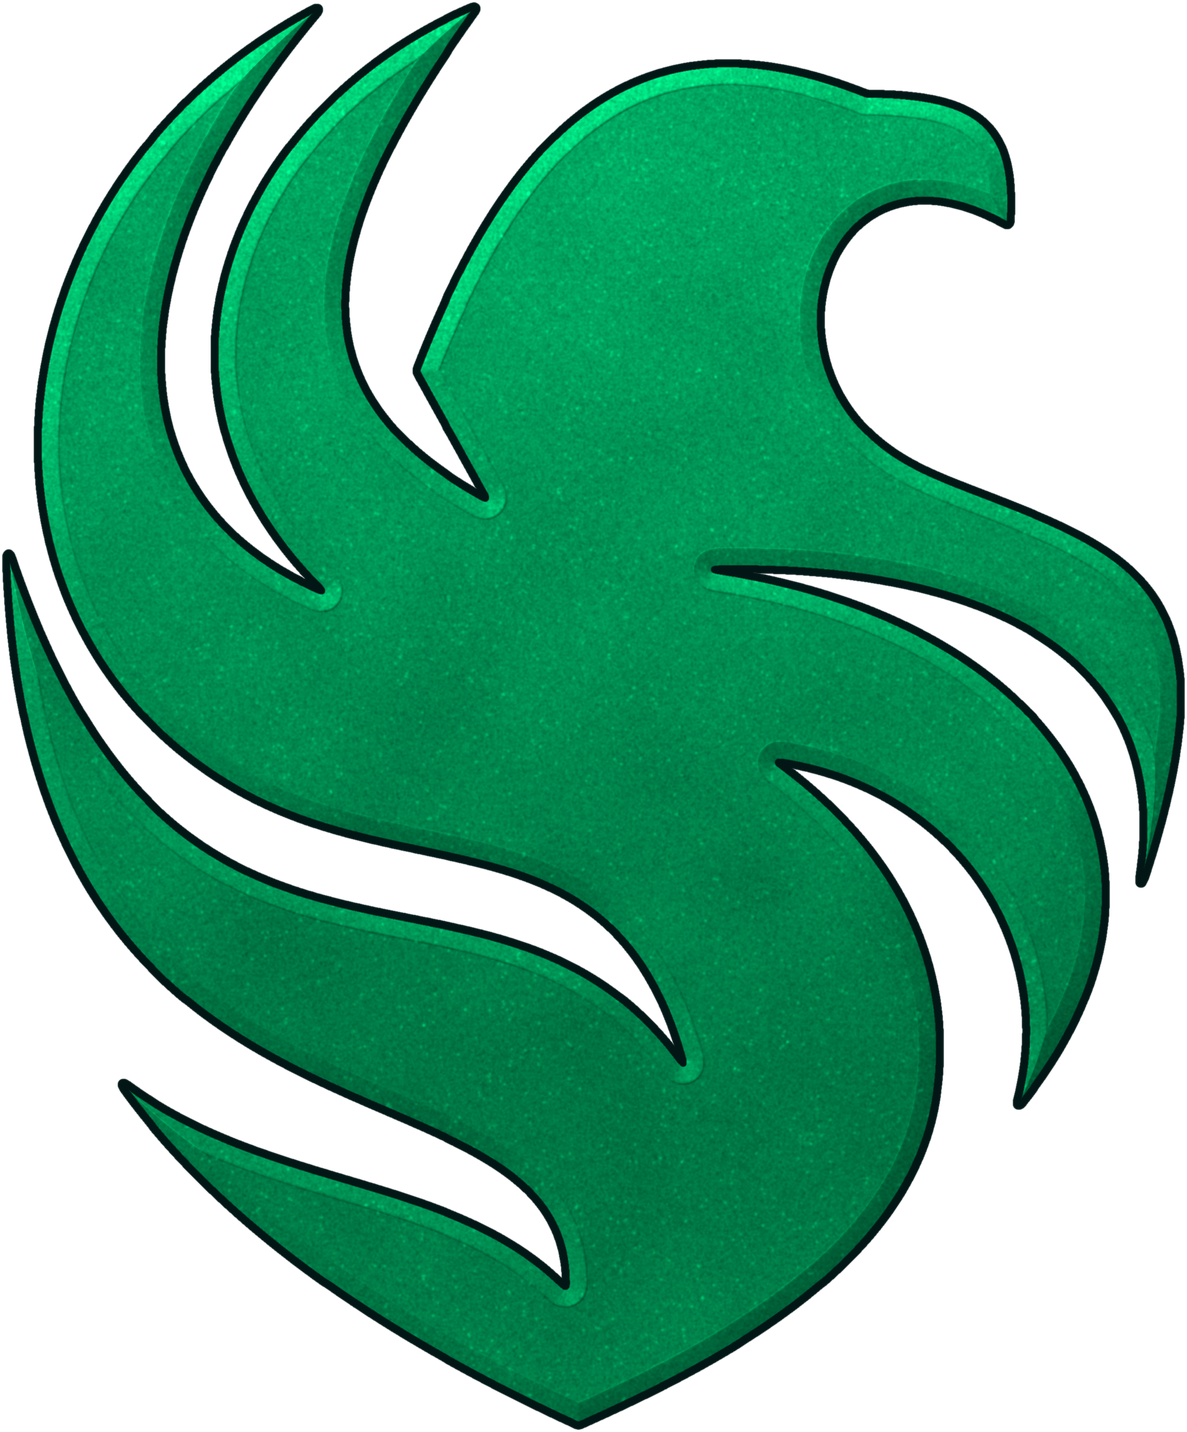
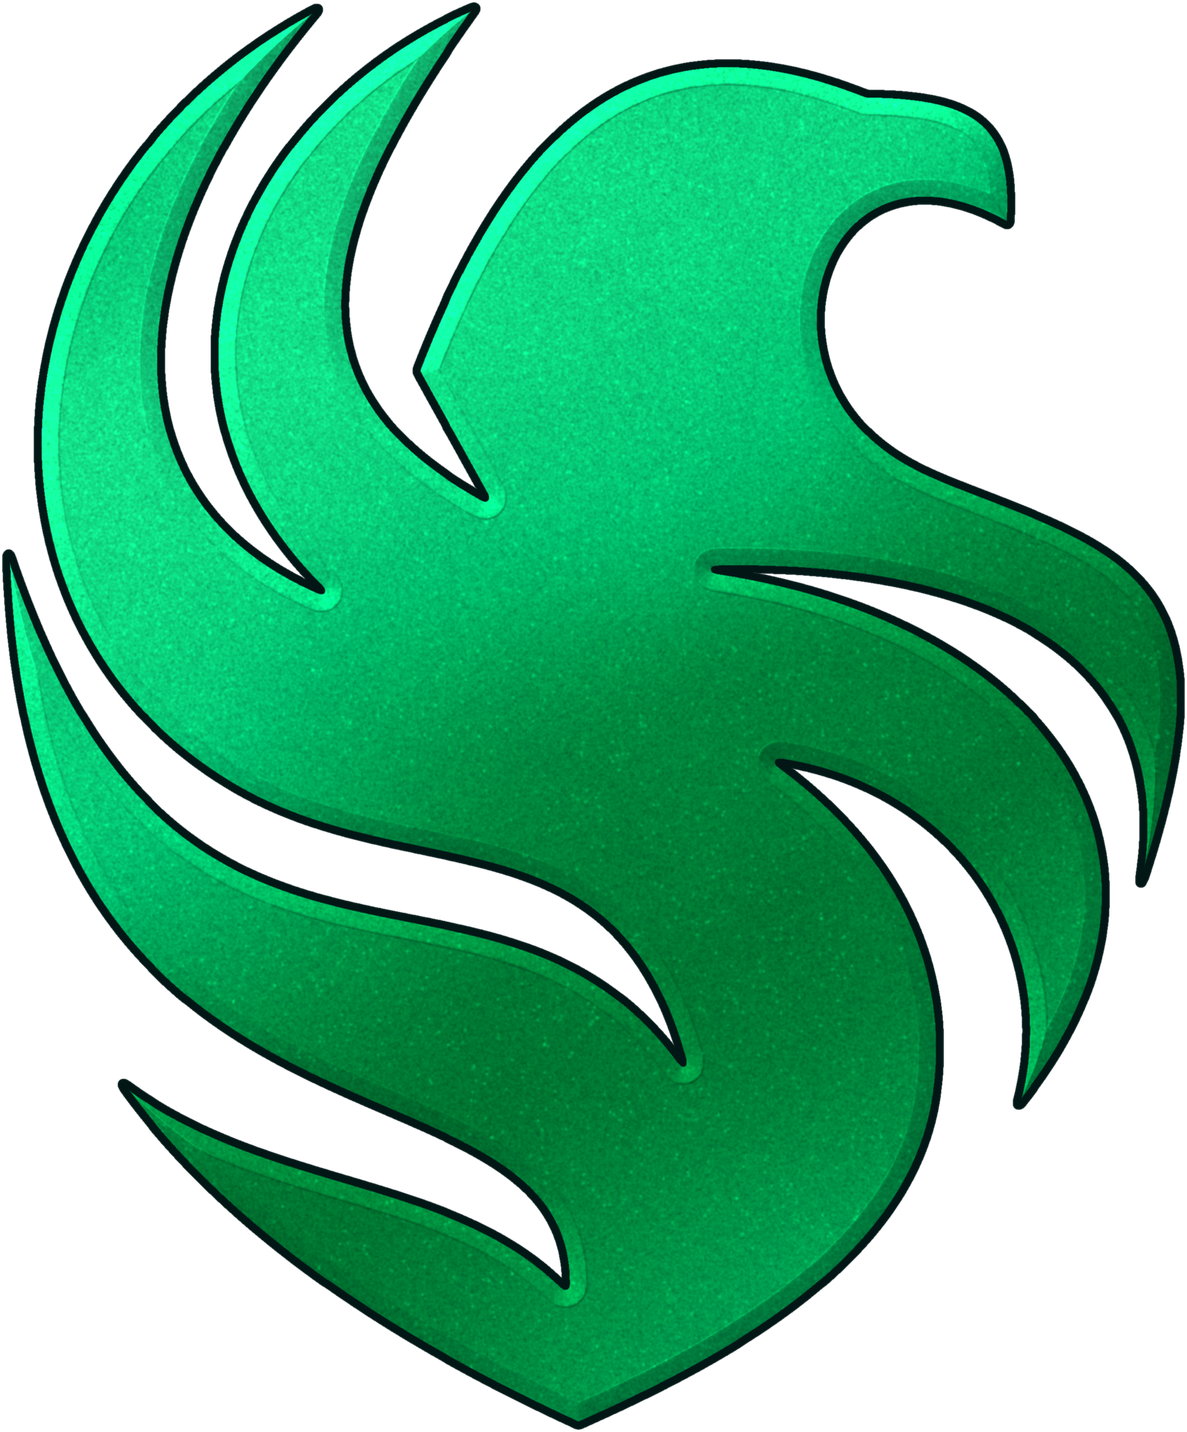
Diagonal lighting and sheen bands, richer shadow colours, blend and knockout options
Claude-Session: https://claude.ai/code/session_01KJ34GnW2j9nAw3EXCHVzYQ

diff --git a/stylize.py b/stylize.py
@@ -16,9 +16,28 @@ def hex_rgb(s):
     return np.array([int(s[i:i + 2], 16) for i in (0, 2, 4)], float)
 
 
-def stylize(src, size=1500, color=None, seed=0, bevel=20, bevel_strength=0.30):
+def shade_color(rgb, f):
+    """Darken/lighten by factor f the way foil does: shadows get richer, not greyer."""
+    f = f[..., None]
+    c = np.clip(rgb / 255, 1e-4, 1)
+    # Light colours (yellow, lime) need deeper shadows than rich ones (orange, red) to read as metal.
+    k = 0.4 + 0.8 * c.mean(-1, keepdims=True)
+    dark = c ** (1 + 1.6 * np.clip(1 - f, 0, None)) * np.minimum(f, 1) ** k
+    # Highlights brighten and drift slightly towards white.
+    lit = np.clip(c * f, 0, 1)
+    lit = lit + (1 - lit) * np.clip((f - 1) * 0.4, 0, 0.5)
+    return 255 * np.where(f < 1, dark, lit)
+
+
+def stylize(src, size=1500, color=None, seed=0, bevel=20, bevel_strength=0.30,
+             sheen=0.12, blend=0.0, knockout_dark=False):
     rng = np.random.default_rng(seed)
     im = src.convert("RGBA")
+    if knockout_dark:
+        # Treat dark linework as holes, so line-art logos become solid shapes with cut-outs.
+        arr = np.array(im)
+        arr[arr[..., :3].astype(float).mean(-1) < 90, 3] = 0
+        im = Image.fromarray(arr, "RGBA")
 
     # Padding so the outline never touches the canvas edge.
     pad = int(max(im.size) * 0.03)
@@ -38,17 +57,31 @@ def stylize(src, size=1500, color=None, seed=0, bevel=20, bevel_strength=0.30):
     rgb = rgb[idx[0], idx[1]]
     if color is not None:
         rgb[:] = color
+    if blend > 0:
+        # Soften hard colour splits into smooth gradients (fraction of logo size).
+        # Weighted by saturation so white/grey pieces pick up the colours around them.
+        sigma = blend * max(W, H)
+        sat = (rgb.max(-1) - rgb.min(-1)) / 255 * inside + 1e-3
+        num = [ndimage.gaussian_filter(rgb[..., c] * sat, sigma) for c in range(3)]
+        rgb = np.dstack(num) / ndimage.gaussian_filter(sat, sigma)[..., None]
 
     px = SS * size / 1500  # all sizes below are tuned for a 1500px output
     d_in = ndimage.distance_transform_edt(inside)
     d_out = ndimage.distance_transform_edt(~inside)
     sdf = d_in - d_out  # positive inside
 
-    # Vertical gradient: bright top, darkest around 75%, slight lift at the bottom.
-    ys = np.nonzero(inside.any(1))[0]
-    t = np.clip((np.arange(H) - ys[0]) / max(1, ys[-1] - ys[0]), 0, 1)
-    ramp = np.interp(t, [0, 0.3, 0.75, 1], [0.90, 0.80, 0.62, 0.66])[:, None, None]
-    col = rgb * ramp
+    # Diagonal gradient, lit from the top-left: bright top-left, darkest around 75%,
+    # slight lift in the far bottom-right corner.
+    yy, xx = np.mgrid[0:H, 0:W].astype(float)
+    proj = 0.55 * xx + 0.83 * yy
+    lo, hi = proj[inside].min(), proj[inside].max()
+    t = np.clip((proj - lo) / max(1.0, hi - lo), 0, 1)
+    ramp = np.interp(t, [0, 0.3, 0.75, 1], [1.18, 1.0, 0.72, 0.76])
+    # Sheen: soft light bands across the diagonal, warped so they don't look ruled.
+    warp = ndimage.gaussian_filter(rng.standard_normal((H // 8 + 1, W // 8 + 1)), max(H, W) / 8 * 0.08)
+    warp = ndimage.zoom(warp / (warp.std() + 1e-9), 8, order=1)[:H, :W]
+    bands = np.sin(2 * np.pi * (1.33 * (t + 0.05 * warp) - 0.15))
+    col = shade_color(rgb, ramp * (1 + sheen * bands))
 
     # Grain: fine noise + soft mottling + sparse bright specks.
     fine = ndimage.gaussian_filter(rng.standard_normal((H, W)), 0.9 * px)
@@ -58,7 +91,7 @@ def stylize(src, size=1500, color=None, seed=0, bevel=20, bevel_strength=0.30):
     specks = (rng.random((H, W)) > 0.9994).astype(float)
     specks = ndimage.gaussian_filter(specks, 1.2 * px)
     specks /= specks.max()
-    lum = 1 + 0.045 * fine + 0.025 * mottle
+    lum = 1 + 0.045 * fine + 0.010 * mottle
     col = col * lum[..., None] + 90 * specks[..., None] * (rgb / 255)
 
     # Bevel: chamfer band inside the edge, lit from the top-left.
@@ -99,5 +132,9 @@ if __name__ == "__main__":
     p.add_argument("--seed", type=int, default=0)
     p.add_argument("--bevel", type=float, default=20, help="bevel width in px at 1500px output")
     p.add_argument("--bevel-strength", type=float, default=0.30)
+    p.add_argument("--sheen", type=float, default=0.12, help="strength of diagonal light bands")
+    p.add_argument("--blend", type=float, default=0.0, help="smooth hard colour splits, e.g. 0.08")
+    p.add_argument("--knockout-dark", action="store_true", help="turn dark linework into holes")
     args = p.parse_args()
-    stylize(Image.open(args.input), args.size, args.color, args.seed, args.bevel, args.bevel_strength).save(args.output)
+    stylize(Image.open(args.input), args.size, args.color, args.seed, args.bevel, args.bevel_strength,
+            args.sheen, args.blend, args.knockout_dark).save(args.output)
